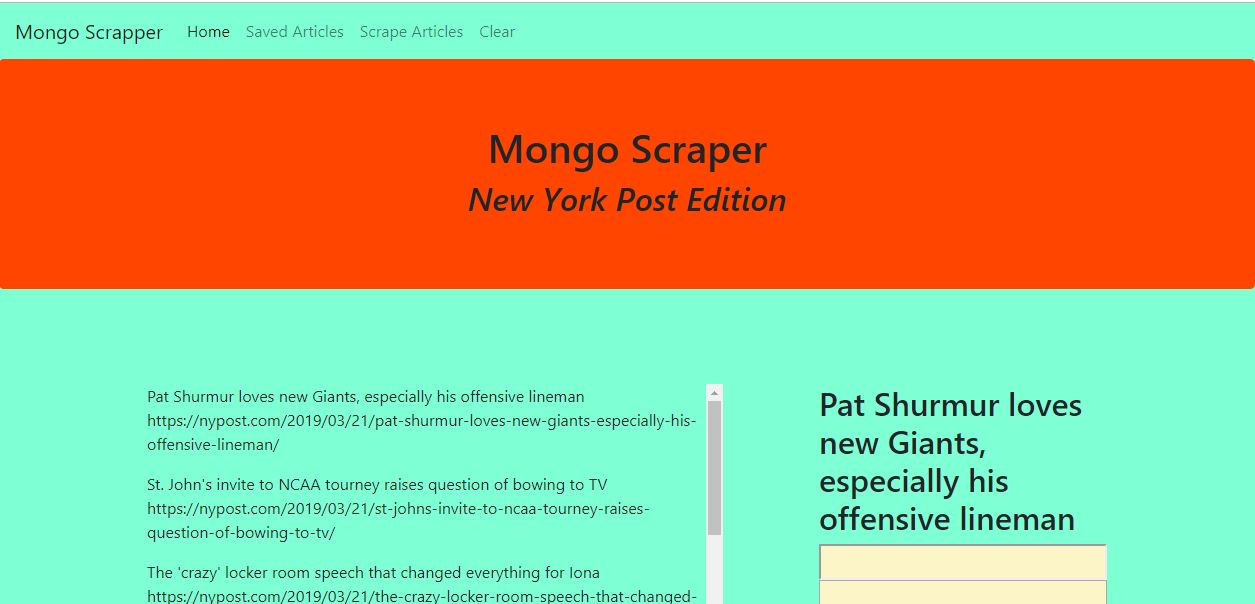
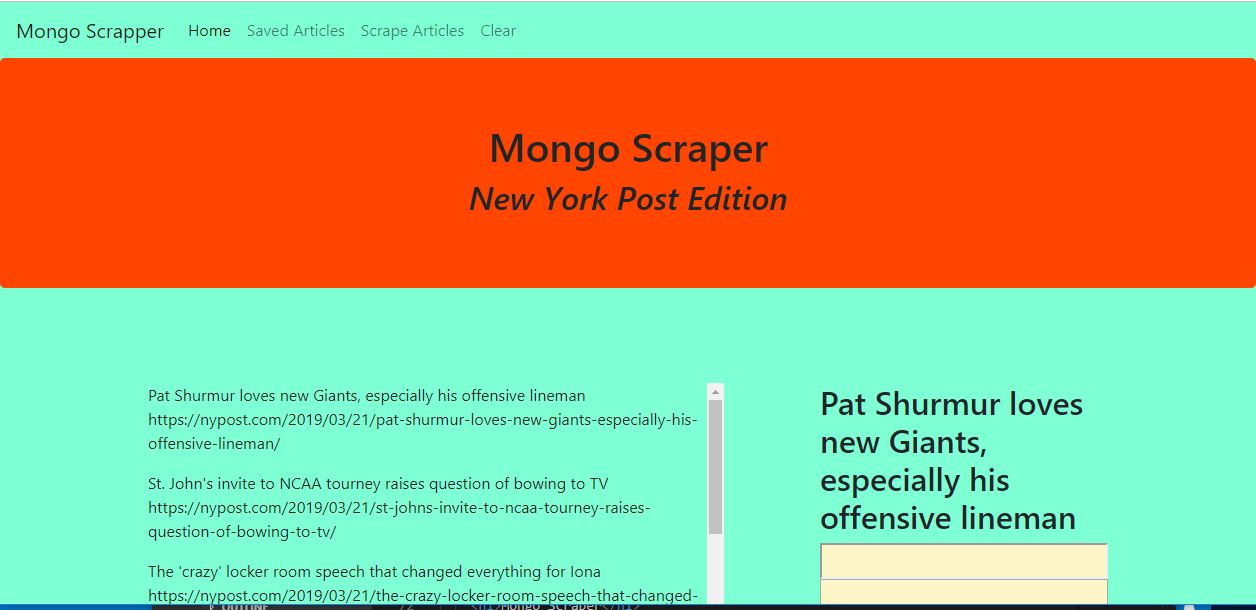
smallfix

diff --git a/public/index.html b/public/index.html
@@ -45,7 +45,7 @@
   </head>
   <body>
         <nav class="navbar navbar-expand-lg navbar-light" style= "background-color: aquamarine">
-                <a class="navbar-brand" href="#">Mongo Scrapper</a>
+                <a class="navbar-brand" href="#">Mongo Scraper</a>
                 <button class="navbar-toggler" type="button" data-toggle="collapse" data-target="#navbarNav" aria-controls="navbarNav" aria-expanded="false" aria-label="Toggle navigation">
                   <span class="navbar-toggler-icon"></span>
                 </button>
